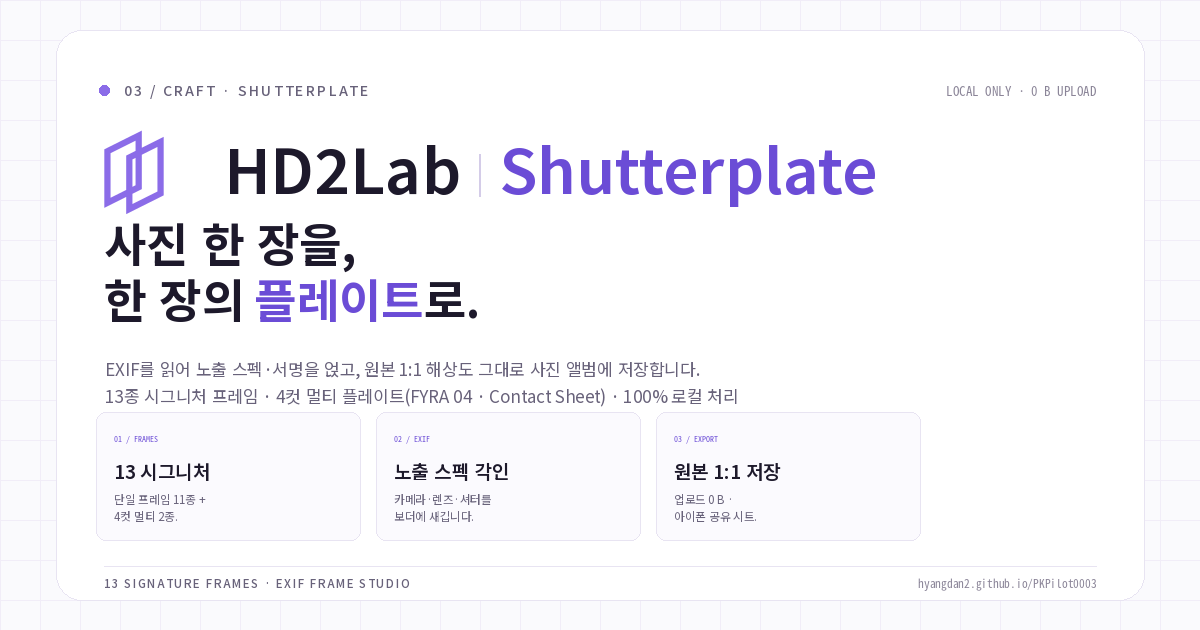
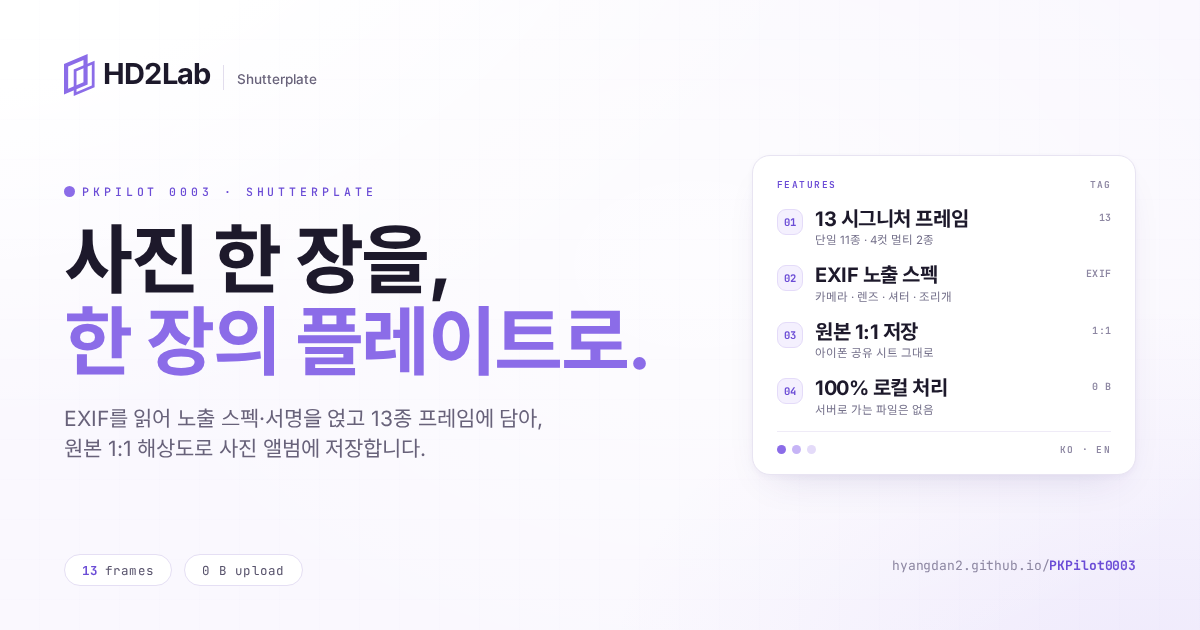
chore(og): share card in the HD2's Diary OG style (#8)
Rebuild og:image / twitter:image as the 1200x630 Diary-style card (Soft Iris wash, dual-skew mark, left title, right feature card) and bump the cache-busting query to ?v=20261121-og.

diff --git a/index.html b/index.html
@@ -35,8 +35,8 @@
   <meta property="og:title" content="Shutterplate — HD2Lab Photo Frame Studio" />
   <meta property="og:description" content="사진을 13종 시그니처 프레임의 플레이트로 — 4컷 멀티 프레임(FYRA 04 6테마 · Contact Sheet) 포함. EXIF 노출 스펙·서명을 얹어 원본 1:1 해상도로. 업로드 0 B, 100% 브라우저 로컬 처리." />
   <meta property="og:url" content="https://hyangdan2.github.io/PKPilot0003/" />
-  <meta property="og:image" content="https://hyangdan2.github.io/PKPilot0003/og-image.png?v=20261116-softiris" />
-  <meta property="og:image:secure_url" content="https://hyangdan2.github.io/PKPilot0003/og-image.png?v=20261116-softiris" />
+  <meta property="og:image" content="https://hyangdan2.github.io/PKPilot0003/og-image.png?v=20261121-og" />
+  <meta property="og:image:secure_url" content="https://hyangdan2.github.io/PKPilot0003/og-image.png?v=20261121-og" />
   <meta property="og:image:type" content="image/png" />
   <meta property="og:image:width" content="1200" />
   <meta property="og:image:height" content="630" />
@@ -46,7 +46,7 @@
   <meta name="twitter:card" content="summary_large_image" />
   <meta name="twitter:title" content="Shutterplate — HD2Lab Photo Frame Studio" />
   <meta name="twitter:description" content="사진을 13종 시그니처 프레임의 플레이트로 — 4컷 멀티 프레임(FYRA 04 · Contact Sheet) 포함." />
-  <meta name="twitter:image" content="https://hyangdan2.github.io/PKPilot0003/og-image.png?v=20261116-softiris" />
+  <meta name="twitter:image" content="https://hyangdan2.github.io/PKPilot0003/og-image.png?v=20261121-og" />
 
   <!-- HD2Lab shared theme: applies the stored hd2-theme before first paint (no flash) -->
   <script>try{var h=localStorage.getItem('hd2-theme');document.documentElement.setAttribute('data-theme',h==='dark'?'dark':'light');}catch(e){document.documentElement.setAttribute('data-theme','light');}</script>

diff --git a/beta/index.html b/beta/index.html
@@ -35,8 +35,8 @@
   <meta property="og:title" content="Shutterplate BETA — HD2Lab Photo Frame Studio" />
   <meta property="og:description" content="사진을 13종 시그니처 프레임의 플레이트로 — 4컷 멀티 프레임(FYRA 04 · Contact Sheet) 포함. EXIF 노출 스펙·서명을 얹어 원본 1:1 해상도로." />
   <meta property="og:url" content="https://hyangdan2.github.io/PKPilot0003/beta/" />
-  <meta property="og:image" content="https://hyangdan2.github.io/PKPilot0003/og-image.png?v=20261116-softiris" />
-  <meta property="og:image:secure_url" content="https://hyangdan2.github.io/PKPilot0003/og-image.png?v=20261116-softiris" />
+  <meta property="og:image" content="https://hyangdan2.github.io/PKPilot0003/og-image.png?v=20261121-og" />
+  <meta property="og:image:secure_url" content="https://hyangdan2.github.io/PKPilot0003/og-image.png?v=20261121-og" />
   <meta property="og:image:type" content="image/png" />
   <meta property="og:image:width" content="1200" />
   <meta property="og:image:height" content="630" />
@@ -46,7 +46,7 @@
   <meta name="twitter:card" content="summary_large_image" />
   <meta name="twitter:title" content="Shutterplate BETA — HD2Lab Photo Frame Studio" />
   <meta name="twitter:description" content="사진을 13종 시그니처 프레임의 플레이트로 — 4컷 멀티 프레임 포함." />
-  <meta name="twitter:image" content="https://hyangdan2.github.io/PKPilot0003/og-image.png?v=20261116-softiris" />
+  <meta name="twitter:image" content="https://hyangdan2.github.io/PKPilot0003/og-image.png?v=20261121-og" />
 
   <!-- HD2Lab shared theme: applies the stored hd2-theme before first paint (no flash) -->
   <script>try{var h=localStorage.getItem('hd2-theme');document.documentElement.setAttribute('data-theme',h==='dark'?'dark':'light');}catch(e){document.documentElement.setAttribute('data-theme','light');}</script>
